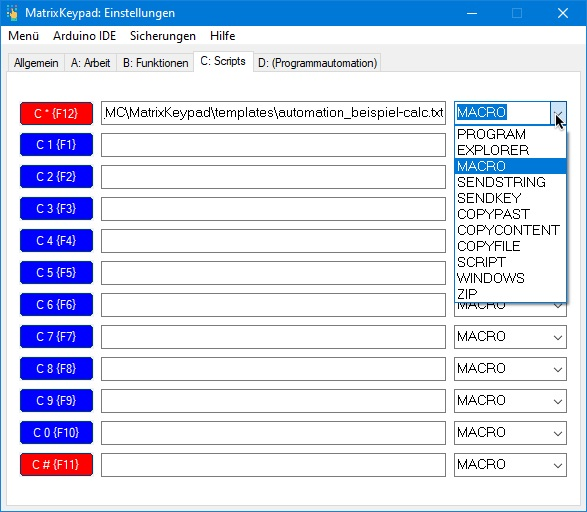
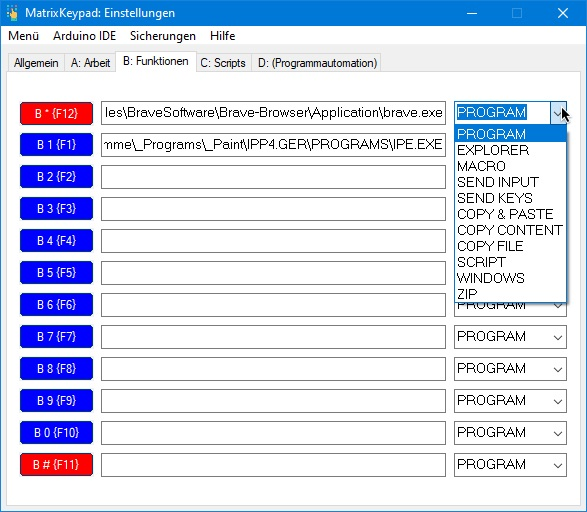
v1.6.18

diff --git a/README.md b/README.md
@@ -66,14 +66,14 @@ Dies sind die Sendekanäle des Arduinos. Mittels der Funktionstasten A bis D wer
 - `SHIFT+STRG+WIN+ALT+F12` - Funktionstaste [&lowast;] für die Programme [A], [B], [C], [D] <br>
 
 ### Funktionen
-- **PROGRAM:** Starte ein ausgewähltes Programm. Nach der Auswahl kann über betätigen des Buttons ein Auswahl-Dialog gestartet werden oder der die Pfadangabe im Eingabefeld direkt vergeben werden.
-- **EXPLORER:** Öffne einen beliebigen Ordner per Pfadangabe.
+- **PROGRAM:** Starte ein ausgewähltes Programm. Nach der Auswahl kann über betätigen des Buttons ein Auswahl-Dialog gestartet werden oder der die Pfadangabe im Eingabefeld direkt vergeben werden. (Es sind MagixWords für Pfadangaben möglich.)
+- **EXPLORER:** Öffne einen beliebigen Ordner per Pfadangabe. (Es sind MagixWords für Pfade möglich.)
 - **MACRO:** Liest die Tastenkombinationen aus einer Text-Datei aus und sendet diese an den PC. Diese Funktion nutzt auch MagicWords. Siehe <a href="https://github.com/ArduinoNanoProjects/MatrixKeypad/blob/main/doc/help.md">Übersicht in der Dokumentation</a>.
-- **SEND INPUT:** Gibt den Inhalt des Eingabefeldes aus.
+- **SEND INPUT:** Gibt den Inhalt des Eingabefeldes aus. (Es sind MagixWords möglich.)
 - **SEND KEYS:** Gibt den Inhalt des Eingabefeldes aus: Tastenkombinationen wie Text können eingetragen werden.
-- **COPY CONTENT:** Liest den Inhalt einer Text-Datei in die Zwischenablage ein und gibt ihn danach aus.
+- **COPY CONTENT:** Liest den Inhalt einer Text-Datei in die Zwischenablage ein und gibt ihn danach aus. Es sind MagixWords in der Datei möglich. (Mit `STRG+C` kann der Inhalt ausgegeben werden.)
+- **COPY & PAST:** Liest den Inhalt einer Text-Datei aus und sendet ihn im Anschluss direkt nach dem Einlesen. Es sind MagixWords in der Datei möglich. 
 - **COPY FILE:** Kopiere eine ausgewählte Datei (z.B. zip) über ein Speichern-Dialog in einen Ordner. 
-- **COPY & PAST:** Liest den Inhalt einer Text-Datei aus und legt ihn in die Zwischenablage. (Mit `STRG+C` kann der Inhalt ausgegeben werden.)
 - **SCRIPT:** Ein über den Pfad zu einem AU3-Script wird direkt ausgeführt.
 - **WINDOWS:** Startet Windows eigene CPL-Programme. (z.B.: Programme löschen mit Appwiz.cpl)
 - **ZIP:** Nutzt den festgelegenten Order um daraus eine zip-Datei mit Datum und Uhrzeit anzufertigen. Durch die Eingabe des Pfad, wird der Ablageplatz definiert. Der festgelegte Ordner kann im Menü unter: `Umgebung > Zip-Ordner öffnen` direkt aufgerufen werden.
